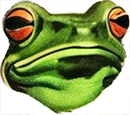
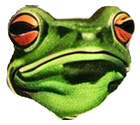
working through sprite outlines...

diff --git a/src/game/BodyPart.ts b/src/game/BodyPart.ts
@@ -9,6 +9,10 @@ export class BodyPart {
     private sprite: HTMLImageElement | null = null
     private spriteLoaded: boolean = false
     
+    // Outline sprite (pre-processed)
+    private outlineSprite: HTMLCanvasElement | null = null
+    private outlineSpriteLoaded: boolean = false
+    
     constructor(type: string, imgFileName: string, stats: Record<string, number>, scale: number = 1) {
         this.type = type
         this.imgFileName = imgFileName
@@ -25,6 +29,8 @@ export class BodyPart {
         this.sprite.onload = () => {
             this.spriteLoaded = true
             console.log(`${this.type} sprite loaded: ${this.imgFileName}`)
+            // Generate outline sprite after main sprite loads
+            this.generateOutlineSprite()
         }
         this.sprite.onerror = () => {
             console.error(`Failed to load ${this.type} sprite: ${this.imgFileName}`)
@@ -41,6 +47,91 @@ export class BodyPart {
     // Get the loaded sprite
     public getSprite(): HTMLImageElement | null {
         return this.sprite
+    }
+    
+    // Get the outline sprite
+    public getOutlineSprite(): HTMLCanvasElement | null {
+        return this.outlineSprite
+    }
+    
+    // Check if outline sprite is ready
+    public isOutlineLoaded(): boolean {
+        return this.outlineSpriteLoaded && this.outlineSprite !== null
+    }
+    
+    // Generate white outline sprite with silhouette dilation
+    private generateOutlineSprite(): void {
+        if (!this.sprite || !this.spriteLoaded) return
+        
+        const originalWidth = this.sprite.naturalWidth
+        const originalHeight = this.sprite.naturalHeight
+        const outlineThickness = 6 // pixels to expand outline
+        
+        // Use same canvas size as original sprite (no padding)
+        const canvas = document.createElement('canvas')
+        const ctx = canvas.getContext('2d')
+        if (!ctx) return
+        
+        canvas.width = originalWidth
+        canvas.height = originalHeight
+        
+        // Draw the original sprite at normal position
+        ctx.drawImage(this.sprite, 0, 0)
+        
+        // Get image data
+        const imageData = ctx.getImageData(0, 0, canvas.width, canvas.height)
+        const data = imageData.data
+        const width = canvas.width
+        const height = canvas.height
+        
+        // Create a copy for the outline
+        const outlineData = new Uint8ClampedArray(data)
+        
+        // Clear the outline data first (start with transparent canvas)
+        outlineData.fill(0)
+        
+        // Dilate FROM sprite pixels outward - find all sprite pixels and expand them
+        for (let y = 0; y < height; y++) {
+            for (let x = 0; x < width; x++) {
+                const index = (y * width + x) * 4
+                const alpha = data[index + 3]
+                
+                // If this pixel is part of the sprite (significantly non-transparent)
+                if (alpha > 128) { // Only consider pixels that are at least 50% opaque
+                    // Expand this sprite pixel outward in all directions
+                    for (let dy = -outlineThickness; dy <= outlineThickness; dy++) {
+                        for (let dx = -outlineThickness; dx <= outlineThickness; dx++) {
+                            // Use distance check for circular outline
+                            if (dx * dx + dy * dy > outlineThickness * outlineThickness) continue
+                            
+                            const nx = x + dx
+                            const ny = y + dy
+                            
+                            // Skip if out of bounds
+                            if (nx < 0 || nx >= width || ny < 0 || ny >= height) continue
+                            
+                            const targetIndex = (ny * width + nx) * 4
+                            
+                            // Only set outline pixel if target location is transparent
+                            if (data[targetIndex + 3] === 0) {
+                                outlineData[targetIndex] = 255     // Red = white
+                                outlineData[targetIndex + 1] = 255 // Green = white
+                                outlineData[targetIndex + 2] = 255 // Blue = white
+                                outlineData[targetIndex + 3] = 255 // Full opacity
+                            }
+                        }
+                    }
+                }
+            }
+        }
+        
+        // Put the dilated outline data back
+        const outlineImageData = new ImageData(outlineData, width, height)
+        ctx.putImageData(outlineImageData, 0, 0)
+        
+        this.outlineSprite = canvas
+        this.outlineSpriteLoaded = true
+        console.log(`${this.type} outline sprite generated with dilation`)
     }
 }
 

diff --git a/src/game/Player.ts b/src/game/Player.ts
@@ -67,6 +67,9 @@ export class Player {
     // Track movement state for breathing animation
     private wasMoving: boolean = false
 
+    // Visual effects - outline toggle
+    public showOutline: boolean = false
+
 
     constructor(x: number, y: number) {
         this.x = x
@@ -347,18 +350,31 @@ export class Player {
                 const worldX = this.x + position.x
                 const worldY = this.y + position.y
                 
-                // Apply hit flash effect
-                const ctx = renderer.context
-                ctx.save()
-                if (this.hitFlashTimer > 0) {
-                    ctx.filter = 'brightness(2) saturate(0)'
-                }
-                
                 // Use renderer's camera-aware drawImage (no breathing transforms)
                 const finalWidth = sprite.naturalWidth * bodyPart.scale
                 const finalHeight = sprite.naturalHeight * bodyPart.scale
                 
+                const ctx = renderer.context
+                ctx.save()
                 
+                // Draw outline sprite first (behind main sprite)
+                if (this.showOutline && bodyPart.isOutlineLoaded()) {
+                    const outlineSprite = bodyPart.getOutlineSprite()
+                    if (outlineSprite) {
+                        // Outline sprite is same size as original now
+                        const outlineWidth = outlineSprite.width * bodyPart.scale
+                        const outlineHeight = outlineSprite.height * bodyPart.scale
+                        // No offset needed - same position as main sprite
+                        renderer.drawImage(outlineSprite, worldX, worldY, outlineWidth, outlineHeight, !this.facingRight)
+                    }
+                }
+                
+                // Apply hit flash effect for main sprite
+                if (this.hitFlashTimer > 0) {
+                    ctx.filter = 'brightness(2) saturate(0)'
+                }
+                
+                // Draw main sprite on top
                 renderer.drawImage(sprite, worldX, worldY, finalWidth, finalHeight, !this.facingRight)
                 
                 ctx.restore()
@@ -390,15 +406,39 @@ export class Player {
                 const ctx = renderer.context
                 ctx.save()
                 
-                // Apply hit flash effect - white tint
+                const drawX = this.facingRight ? screen.x - finalWidth/2 : -screen.x - finalWidth/2
+                const drawY = screen.y - finalHeight/2
+                
+                // Draw outline sprite first (behind main sprite)
+                if (this.showOutline && bodyPart.isOutlineLoaded()) {
+                    const outlineSprite = bodyPart.getOutlineSprite()
+                    if (outlineSprite) {
+                        // Outline sprite is same size as original now
+                        const outlineWidth = outlineSprite.width * bodyPart.scale * (renderer as any).cam.zoom
+                        const outlineHeight = outlineSprite.height * bodyPart.scale * (renderer as any).cam.zoom
+                        // Same position as main sprite
+                        const outlineDrawX = this.facingRight ? 
+                            screen.x - outlineWidth/2 : 
+                            -screen.x - outlineWidth/2
+                        const outlineDrawY = screen.y - outlineHeight/2
+                        
+                        if (this.facingRight) {
+                            ctx.drawImage(outlineSprite, outlineDrawX, outlineDrawY, outlineWidth, outlineHeight)
+                        } else {
+                            ctx.save()
+                            ctx.scale(-1, 1)
+                            ctx.drawImage(outlineSprite, outlineDrawX, outlineDrawY, outlineWidth, outlineHeight)
+                            ctx.restore()
+                        }
+                    }
+                }
+                
+                // Apply hit flash effect for main sprite
                 if (this.hitFlashTimer > 0) {
                     ctx.filter = 'brightness(2) saturate(0)'
                 }
                 
-                const drawX = this.facingRight ? screen.x - finalWidth/2 : -screen.x - finalWidth/2
-                const drawY = screen.y - finalHeight/2
-                
-                
+                // Draw main sprite on top
                 if (this.facingRight) {
                     ctx.drawImage(sprite, drawX, drawY, finalWidth, finalHeight)
                 } else {

diff --git a/src/utils/Debug.ts b/src/utils/Debug.ts
@@ -10,7 +10,8 @@ export class DebugSystem {
     public display = {
         bounds: false,      // Show hitboxes, weapon ranges, pickup radius
         grid: true,        // Show coordinate grid
-        playerBreathe: true // Enable player breathing animation
+        playerBreathe: true, // Enable player breathing animation
+        playerOutline: true // Show player outline
     };
 
     constructor() {
@@ -59,6 +60,12 @@ export class DebugSystem {
                 const checkbox = document.getElementById('playerBreathe') as HTMLInputElement;
                 if (checkbox) checkbox.checked = this.display.playerBreathe;
                 // console.log('Debug playerBreathe toggled:', this.display.playerBreathe);
+            }
+            if (e.code === 'KeyO') {
+                this.display.playerOutline = !this.display.playerOutline;
+                const checkbox = document.getElementById('playerOutline') as HTMLInputElement;
+                if (checkbox) checkbox.checked = this.display.playerOutline;
+                // console.log('Debug playerOutline toggled:', this.display.playerOutline);
             }
             if (e.code === 'Digit1') {
                 if (this.onAddXP) {
@@ -171,6 +178,33 @@ export class DebugSystem {
         playerBreatheLabel.appendChild(playerBreatheCheckbox);
         playerBreatheLabel.appendChild(playerBreatheText);
         debugPanel.appendChild(playerBreatheLabel);
+
+        // Create playerOutline checkbox
+        const playerOutlineLabel = document.createElement('label');
+        playerOutlineLabel.style.cssText = `
+            display: flex;
+            align-items: center;
+            gap: 6px;
+            cursor: pointer;
+            margin-top: 4px;
+        `;
+
+        const playerOutlineCheckbox = document.createElement('input');
+        playerOutlineCheckbox.type = 'checkbox';
+        playerOutlineCheckbox.id = 'playerOutline';
+        playerOutlineCheckbox.checked = this.display.playerOutline;
+        
+        // Update debug state when checkbox changes
+        playerOutlineCheckbox.addEventListener('change', (e) => {
+            this.display.playerOutline = (e.target as HTMLInputElement).checked;
+            console.log('Debug display.playerOutline:', this.display.playerOutline);
+        });
+
+        const playerOutlineText = document.createTextNode('Player Outline');
+        
+        playerOutlineLabel.appendChild(playerOutlineCheckbox);
+        playerOutlineLabel.appendChild(playerOutlineText);
+        debugPanel.appendChild(playerOutlineLabel);
 
         // Create zoom indicator
         const zoomIndicator = document.createElement('div');

diff --git a/src/game/Game.ts b/src/game/Game.ts
@@ -52,8 +52,8 @@ export class Game {
   private cam = {
     x: 0,
     y: 0,
-    zoom: 1.5,
-    targetZoom: 1.5,
+    zoom: 1.75,
+    targetZoom: 1.75,
   };
 
   // Game loop timing
@@ -168,10 +168,10 @@ export class Game {
     // Handle zoom input
     const inputState = this.inputManager.inputState;
     if (inputState.zoomIn) {
-      this.cam.targetZoom = Math.min(this.cam.targetZoom + 0.05, 3.0); // Max 3x zoom
+      this.cam.targetZoom = Math.min(this.cam.targetZoom + 0.1, 5.0); // Max 5x zoom
     }
     if (inputState.zoomOut) {
-      this.cam.targetZoom = Math.max(this.cam.targetZoom - 0.05, 0.5); // Min 0.5x zoom
+      this.cam.targetZoom = Math.max(this.cam.targetZoom - 0.1, 0.5); // Min 0.5x zoom
     }
 
     // Smooth zoom transition
@@ -288,6 +288,10 @@ export class Game {
     this.updateEnemies(deltaTime);
     this.updateSoma(deltaTime);
     this.updateFloatingTexts(deltaTime);
+
+    // Sync debug state with player
+    this.player.showOutline = debug.display.playerOutline;
+
     this.player.update(
       deltaTime,
       this.inputManager.inputState,
